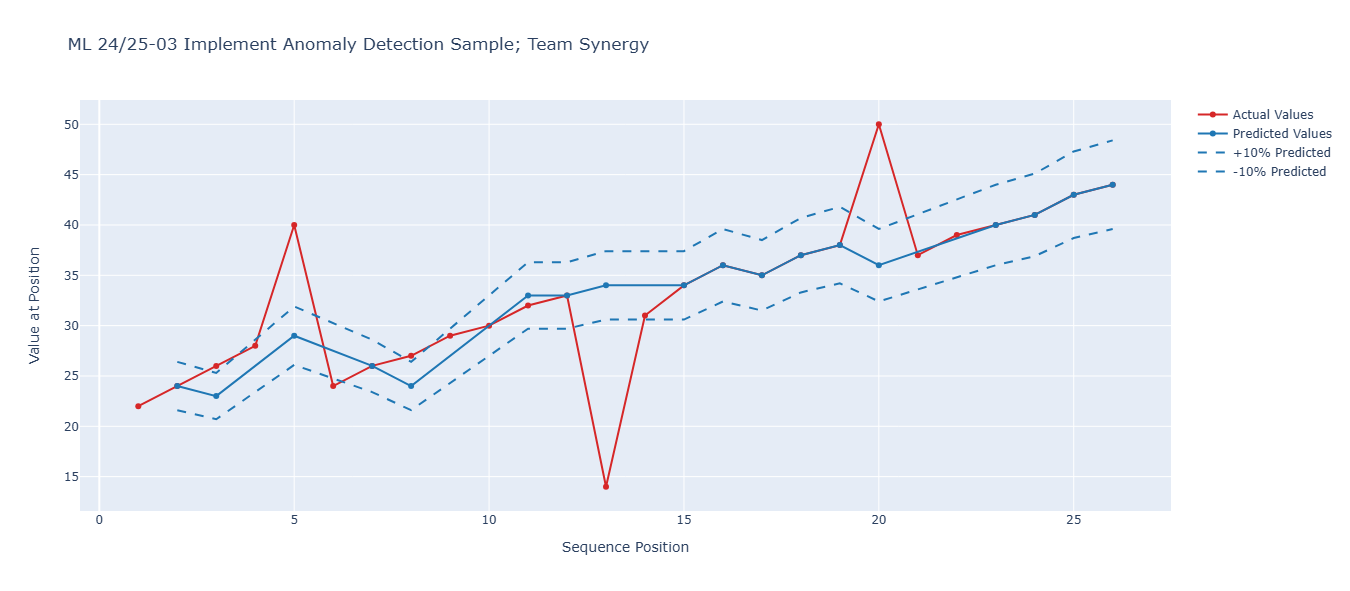
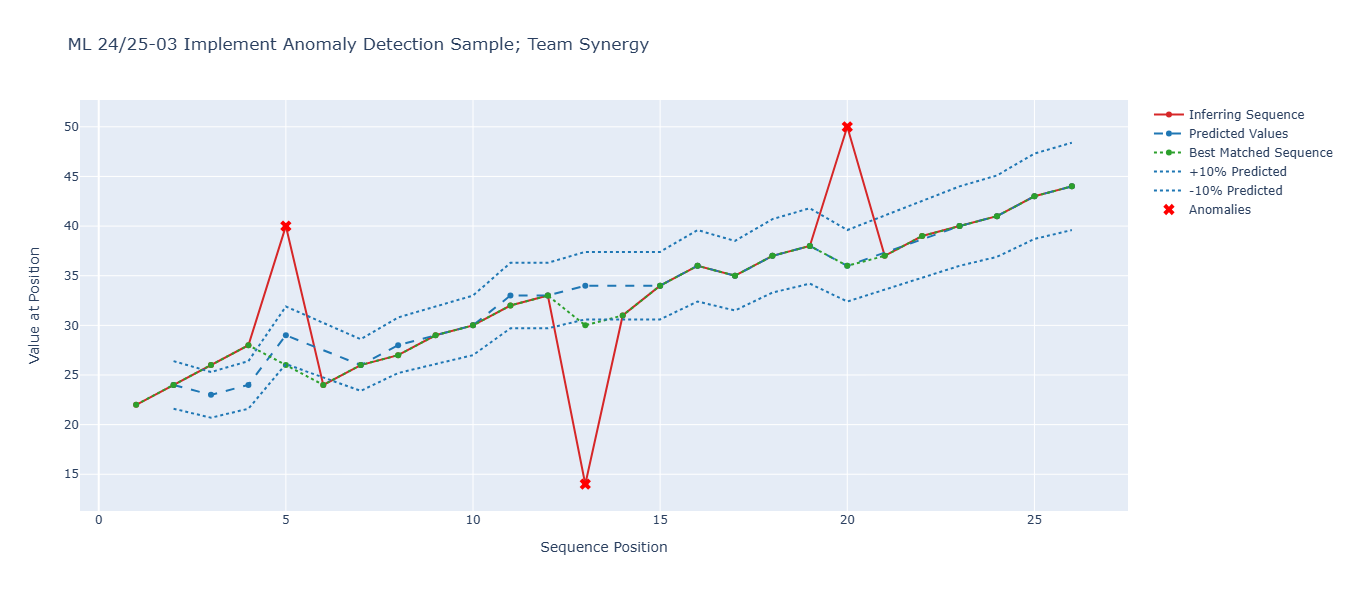
visualization updates

diff --git a/source/MySEProject/AnomalyDetectionTeamSynergy/ModelPredictions/graph_plotly.py b/source/MySEProject/AnomalyDetectionTeamSynergy/ModelPredictions/graph_plotly.py
@@ -16,42 +16,66 @@ def load_and_clean_data(file_path):
     return dataframe
 
 def plot_actual_vs_predicted(dataframe):
-    """Generate and display a Plotly figure comparing actual and predicted values with ±10% bounds."""
-    actual_values = dataframe["Actual"]
-    predicted_values = dataframe["Predicted"]
+    """Generate and display a Plotly figure comparing actual, predicted, and best-matched sequences with anomalies highlighted."""
+    actual_values = dataframe["Inferring Sequence"]
+    predicted_values = dataframe["Predicted Values"]
+    best_matched_sequence = dataframe[" Best Matched Sequence"].dropna()
     x_axis = list(range(1, len(actual_values) + 1))
-    
+
     # Calculate ±10% of predicted values
     upper_bound = predicted_values * 1.1
     lower_bound = predicted_values * 0.9
-    
+
+    # Identify anomalies
+    anomalies = abs(actual_values - predicted_values) > (0.15 * actual_values)
+
     fig = go.Figure()
 
+    # Plot inferring sequence values
     fig.add_trace(go.Scatter(
-        x=x_axis, y=actual_values, mode='lines+markers', name='Actual Values',
-        line=dict(color='#d62728'), connectgaps=True
+        x=x_axis, y=actual_values, mode='lines+markers', name='Inferring Sequence',
+        line=dict(color='#d62728', width=2), marker=dict(size=6), connectgaps=True
     ))
 
+    # Plot predicted values
     fig.add_trace(go.Scatter(
         x=x_axis, y=predicted_values, mode='lines+markers', name='Predicted Values',
-        line=dict(color='#1f77b4'), connectgaps=True
+        line=dict(color='#1f77b4', width=2, dash='dash'), marker=dict(size=6), connectgaps=True
     ))
 
+    # Plot best-matched sequence
+    fig.add_trace(go.Scatter(
+        x=list(range(1, len(best_matched_sequence) + 1)), 
+        y=best_matched_sequence, mode='lines+markers', name='Best Matched Sequence',
+        line=dict(color='#2ca02c', width=2, dash='dot'), marker=dict(size=6), connectgaps=True
+    ))
+
+    # Plot ±10% bounds
     fig.add_trace(go.Scatter(
         x=x_axis, y=upper_bound, mode='lines', name='+10% Predicted',
-        line=dict(color='#1f77b4', dash='dash'), connectgaps=True
+        line=dict(color='#1f77b4', dash='dot'), connectgaps=True
     ))
 
     fig.add_trace(go.Scatter(
         x=x_axis, y=lower_bound, mode='lines', name='-10% Predicted',
-        line=dict(color='#1f77b4', dash='dash'), connectgaps=True
+        line=dict(color='#1f77b4', dash='dot'), connectgaps=True
     ))
 
+    # Highlight anomalies
+    fig.add_trace(go.Scatter(
+        x=[x_axis[i] for i in range(len(x_axis)) if anomalies[i]],
+        y=[actual_values[i] for i in range(len(actual_values)) if anomalies[i]],
+        mode='markers', name='Anomalies',
+        marker=dict(color='red', size=10, symbol='x')
+    ))
+
+    # Improve layout
     fig.update_layout(
         title='ML 24/25-03 Implement Anomaly Detection Sample; Team Synergy',
         xaxis_title='Sequence Position',
-        yaxis_title='Value at Position'
+        yaxis_title='Value at Position',
     )
+    
     fig.show()
 
 def main():
